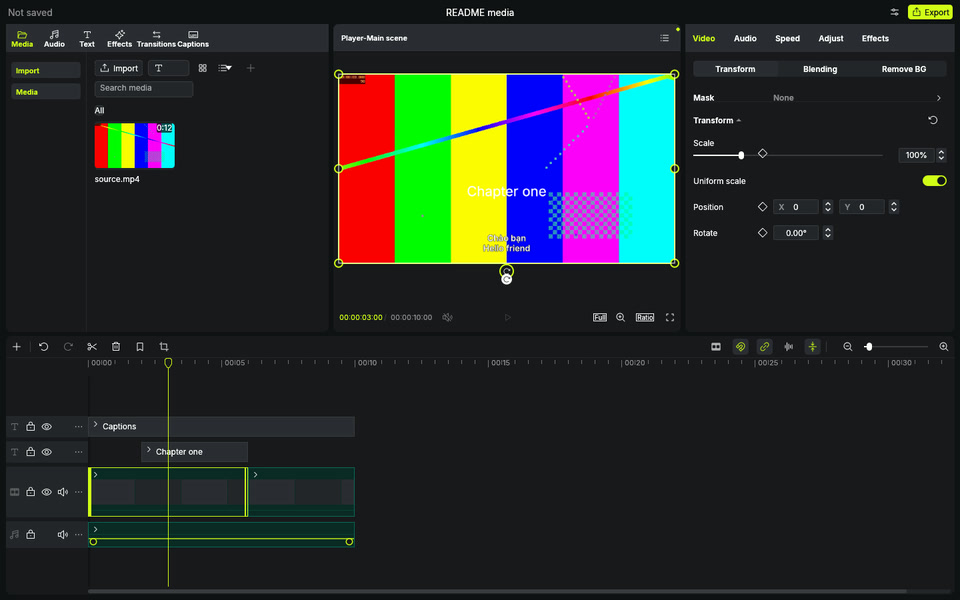
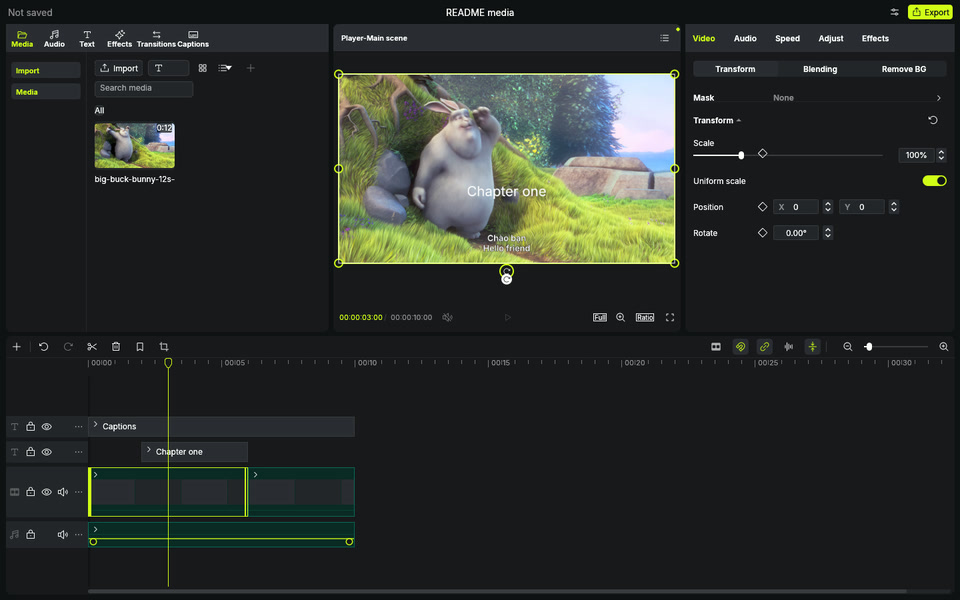
docs(readme): show Big Buck Bunny in the README demo
Regenerate the real editor hero and 8-second timeline media from the credited CC-BY-3.0 excerpt, with updated provenance, release link and decoded-output measurements.

Changed region(s): [[0.3438, 0.12, 0.7188, 0.45], [0.0938, 0.18, 0.1875, 0.3]]

diff --git a/docs/assets/readme/README.md b/docs/assets/readme/README.md
@@ -23,11 +23,12 @@ formats and not a product performance benchmark.
[1 lines of base64/hex data omitted]
 - The full master, excerpt file, projects, raw frames and manifests stay outside
   Git. The compact excerpt is also published as the dedicated versioned
-  `fixtures-big-buck-bunny-2026-11-11` fixture prerelease; it is not the app,
-  nightly, built-in content or a runtime download. The film is CC-BY-3.0;
-  VibeCut code and this capture remain GPL-3.0-only. Blender Foundation does not
-  endorse VibeCut. [ADR 0007](../../adr/0007-big-buck-bunny-documentation.md)
-  records the narrow admission.
+  [fixtures-big-buck-bunny-2026-11-11](https://github.com/canhta/vibecut/releases/tag/fixtures-big-buck-bunny-2026-11-11)
+  fixture prerelease; it is not the app, nightly, built-in content or a runtime
+  download. The film is CC-BY-3.0; VibeCut code and this capture remain
+  GPL-3.0-only. Blender Foundation does not endorse VibeCut.
+  [ADR 0007](../../adr/0007-big-buck-bunny-documentation.md) records the narrow
+  admission.
 
 ## Files and provenance
 
@@ -51,10 +52,11 @@ or translated speech. No provider/model received the film.
[2 lines of base64/hex data omitted]
 
-Generated at source commit `43a9f86a762abf18e3bcba90886d09a8d3b7ad3f`.
-Measured source-vs-decoded RGB mean/max absolute error is recorded in each run
-manifest and repeated below after the final regeneration. The per-run manifest is
-the authoritative receipt for a particular capture.
+Generated at source commit `f8f2d6474d293bfb98ee046c8984362e487bcc2e`.
+Measured source-vs-decoded RGB mean/max absolute error was 0.861/24 for
+`hero.jpg`, 0.863/24 for `timeline.jpg`, and 0.791/101 for the palette-optimized
+GIF frame 40. The per-run manifest is the authoritative receipt for a particular
+capture.
 
 ## Regeneration
 

diff --git a/docs/adr/0007-big-buck-bunny-documentation.md b/docs/adr/0007-big-buck-bunny-documentation.md
@@ -10,9 +10,10 @@ the remaining README slots stay open.
 Only documentation media under `docs/assets/readme/` and explicit local media
 smoke/integration fixtures may use this excerpt. The film, source master, excerpt
 files, projects and raw frames stay out of Git and out of the product bundle. The
-shared excerpt is published separately as a versioned fixture release. It is not
-built-in content, a library item, a model/provider input, or an offer to download
-the full film at runtime.
+shared excerpt is published separately as the versioned
+[fixtures-big-buck-bunny-2026-11-11](https://github.com/canhta/vibecut/releases/tag/fixtures-big-buck-bunny-2026-11-11)
+fixture prerelease. It is not built-in content, a library item, a model/provider
+input, or an offer to download the full film at runtime.
 
 The required excerpt credit is `(c) copyright 2008, Blender Foundation /
 www.bigbuckbunny.org`. The unmodified licence text is
